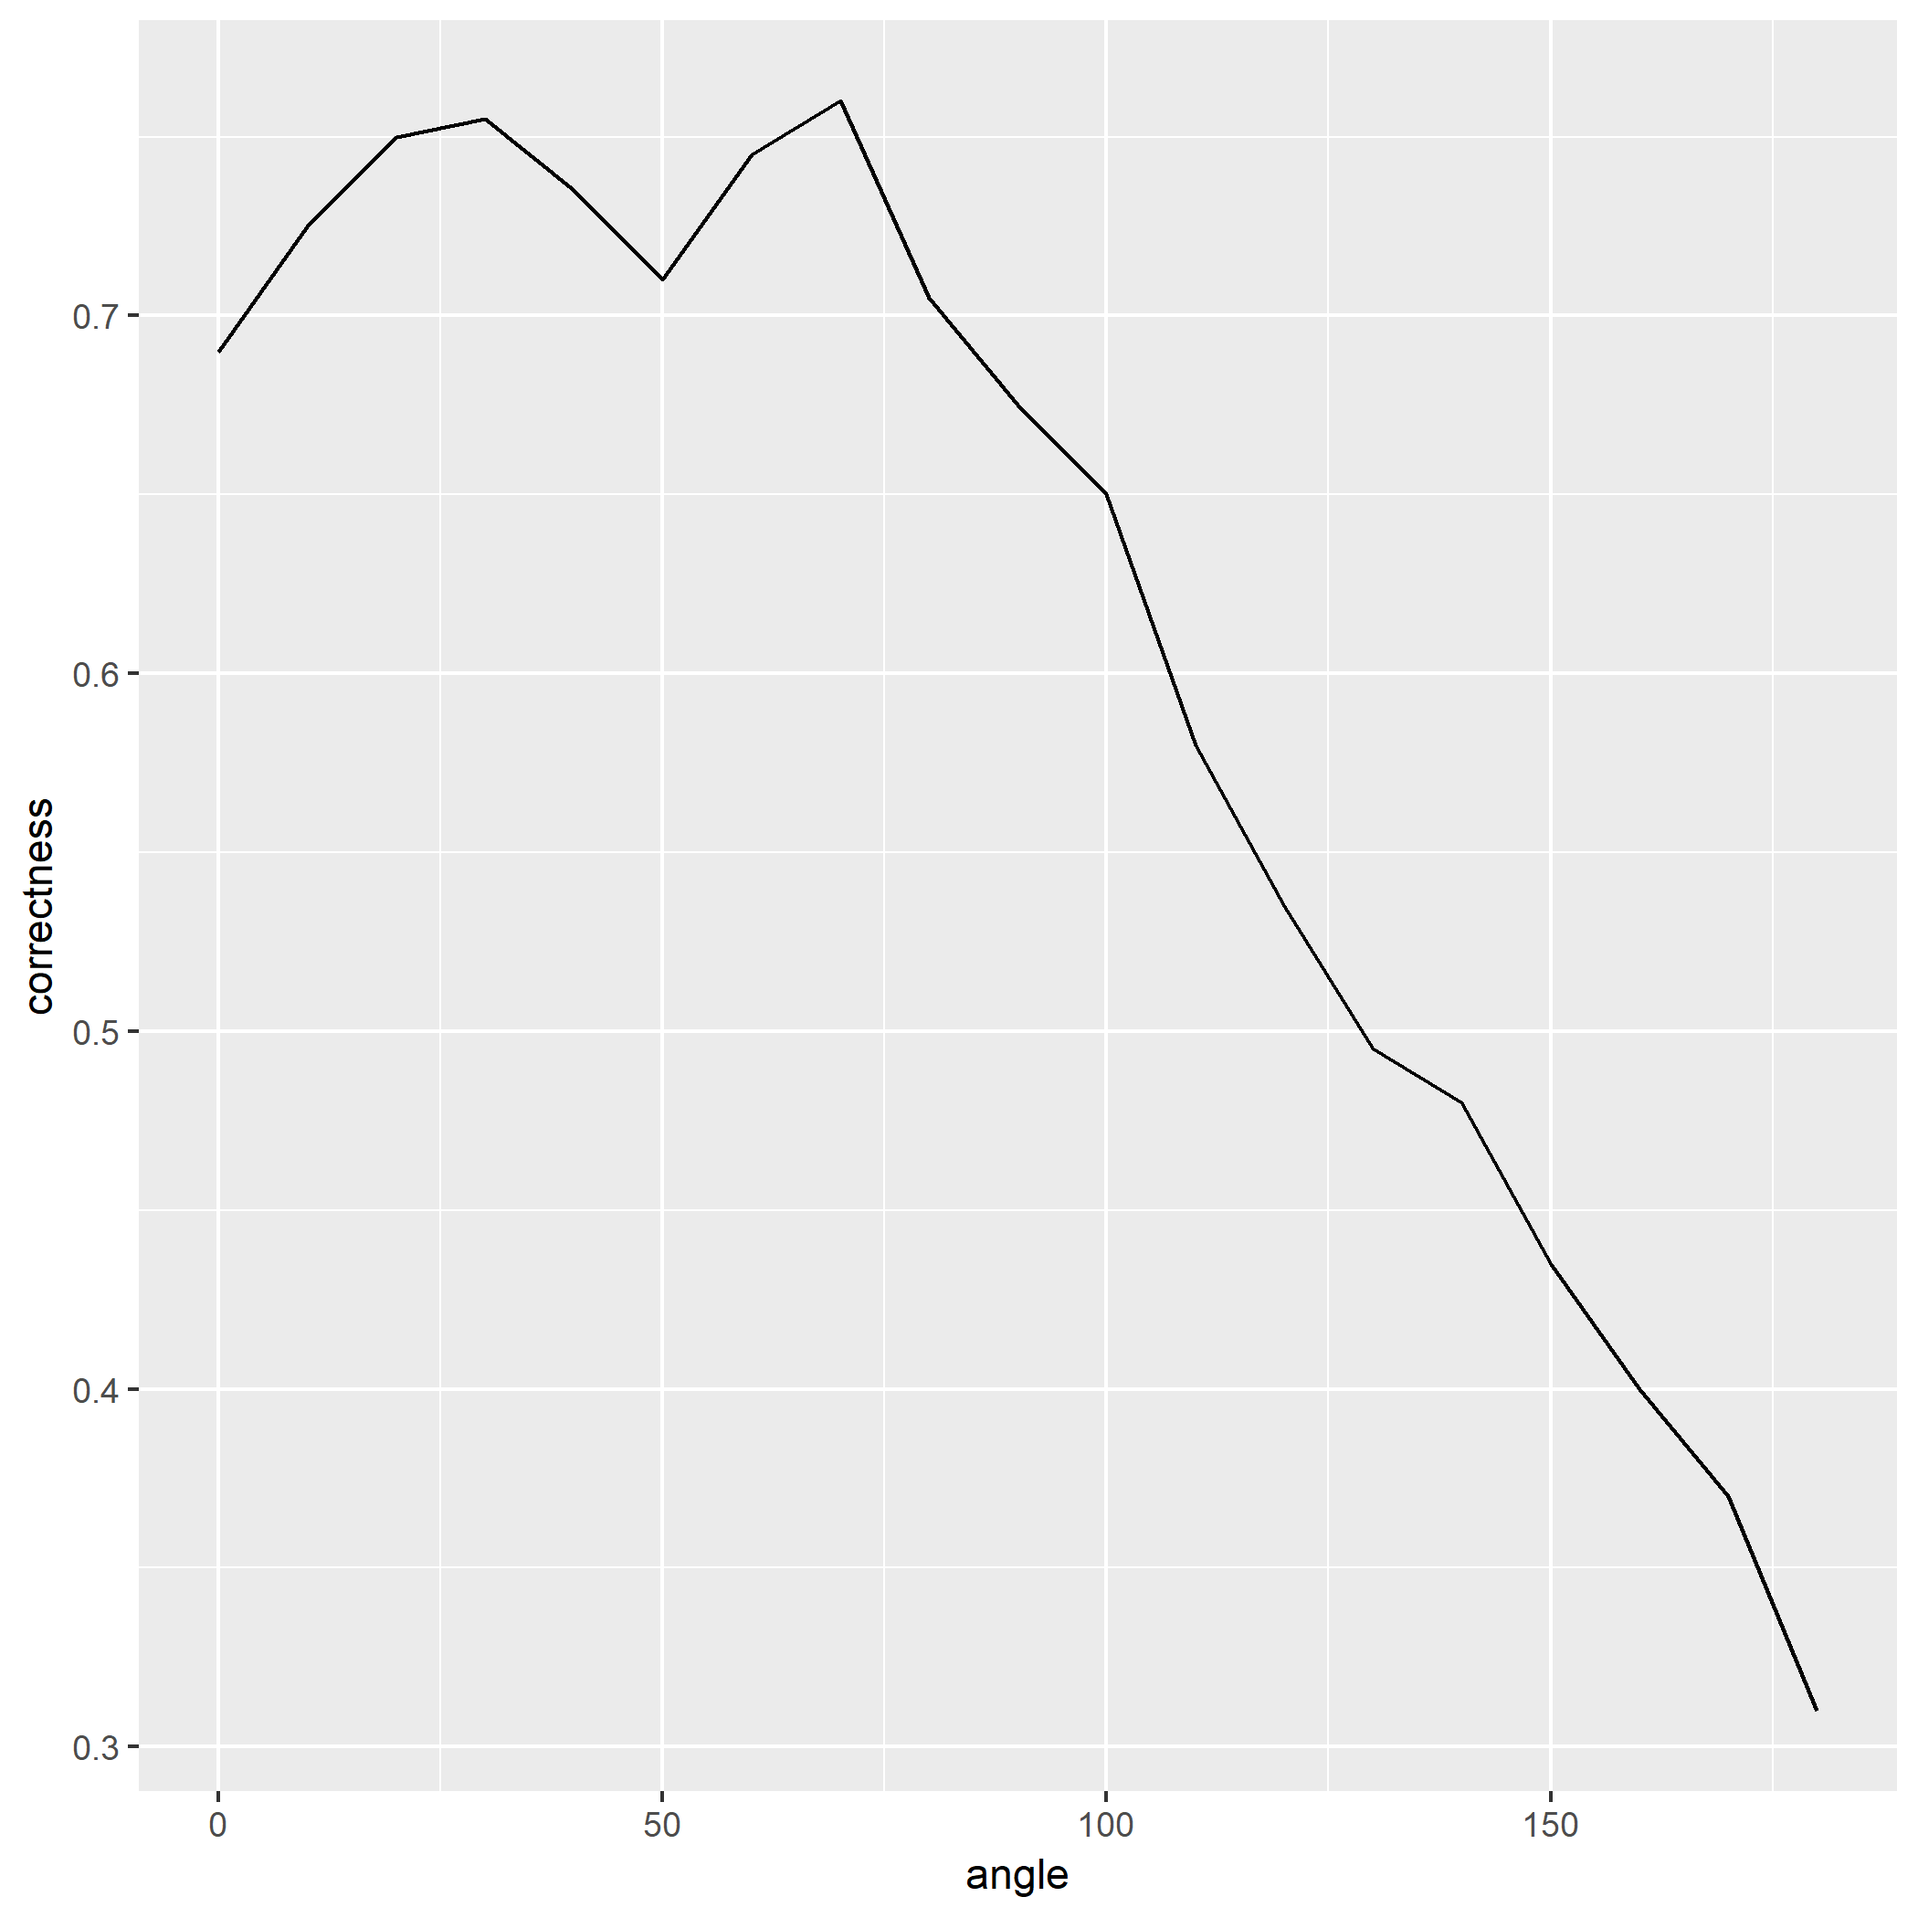
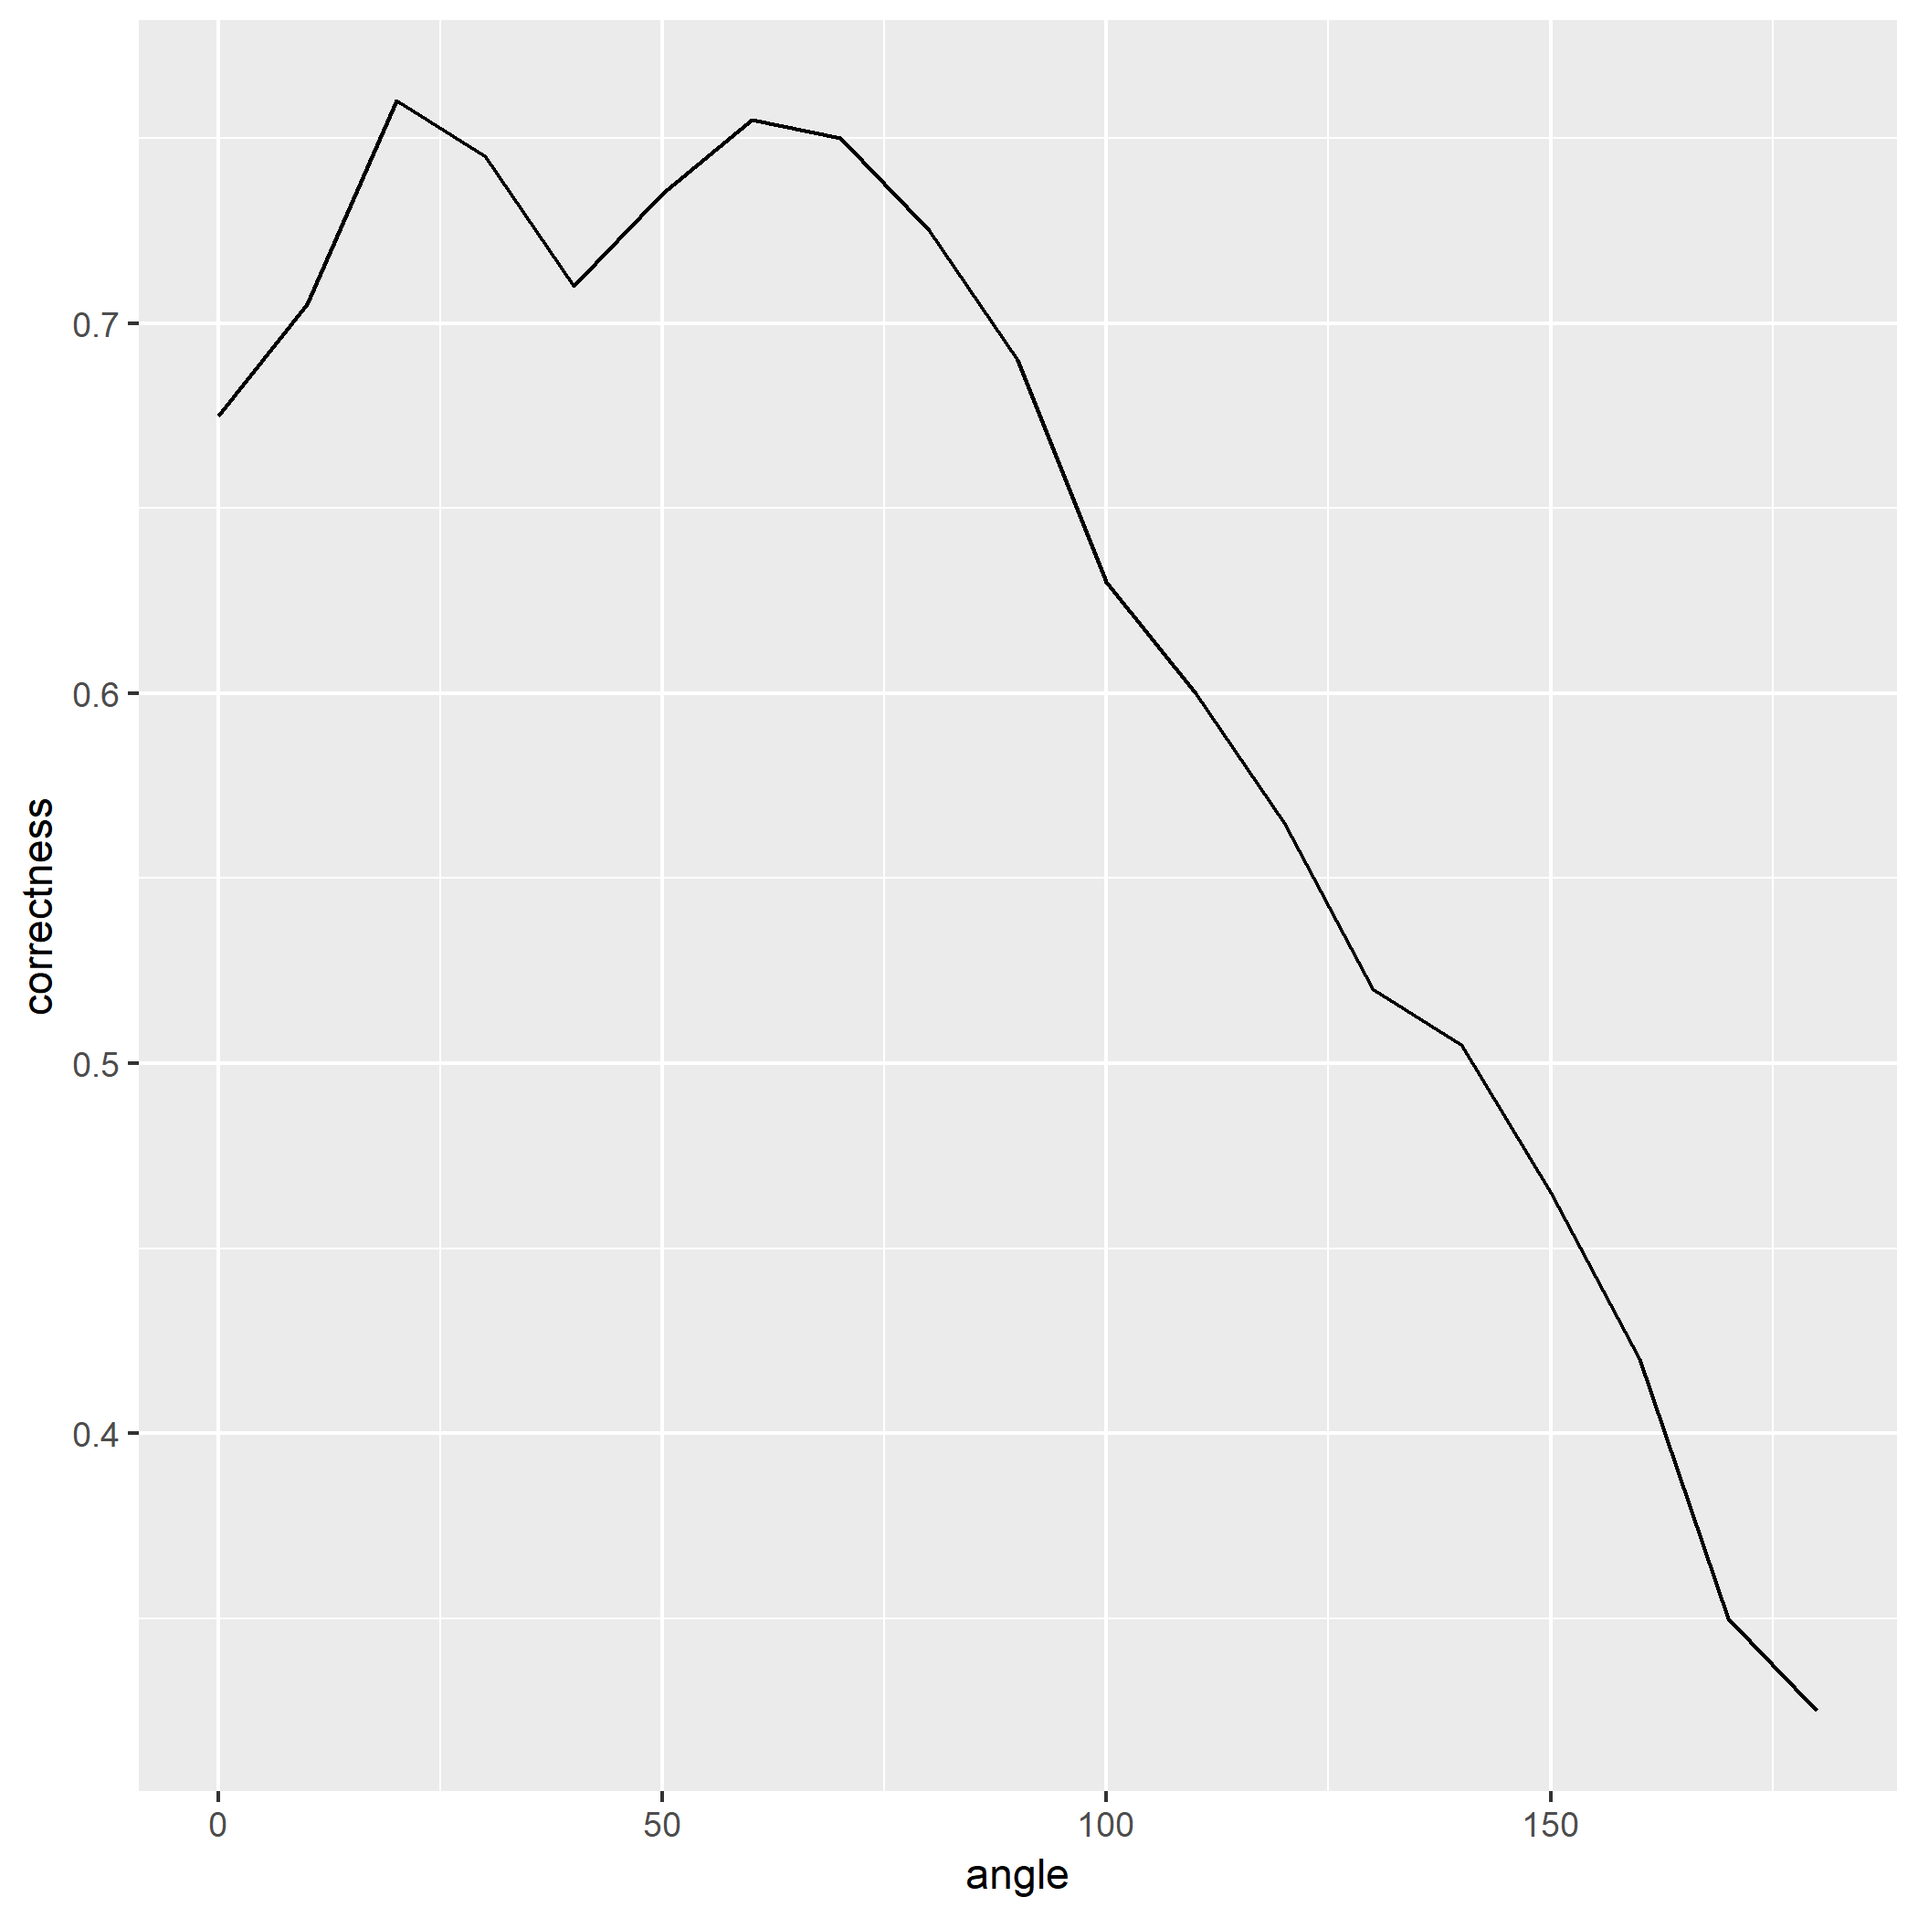
Take a break.

diff --git a/source/_posts/机器学习作业练习-二.md b/source/_posts/机器学习作业练习-二.md
@@ -37,6 +37,19 @@ $$
 将每个$\vec{w}$应用到属性集上得出$\hat{y}$，与原本的标签$y_0$对比得出正确率，最后得到`正确率-角度`的图（[源码](https://github.com/CFWLoader/supreme-bassoon/blob/master/MachineIntelligence/e2/e2-1b.R)）：
 ![](机器学习作业练习-二/e2-1b_cor-angle.png)
 
+## <font color="red">注意</font>
+
+笔者在第二问就尝试输出$\theta = 0$时最佳的$\alpha=20°$的图像，发现直线并不是所期待一般近似划分两个类：
+![](机器学习作业练习-二/e2-1b_wrg.png)
+
+在开始探究原因之前，先回想清楚{% post_link "数学方法技巧整理" "法向量" %}的定义。
+
+定义是没有问题的，那是因为刚好$\theta = 0$导致直线方程$w_1 x_1 + w_2 x_2 = 0$，即所得的直线刚好是法向量所在的直线，于是划分类的超平面恰好垂直于该直线，根据两直线垂直其斜率之积为$-1$可以得到最终划分超平面的超平面方程为$x_2 = \frac{w2}{w1} x_1$，根据方程作出直线：
+
+![](机器学习作业练习-二/e2-1b.png)
+
+这样才有点像划分的样子，但是要注意这仅仅是$\theta = 0$时的特例，一般情况所得$w^T x + \theta = 0$超平面便是划分点集的超平面。
+
 接下来一问是根据上一问得出的最佳的$\vec{w}$，组合$\theta\in [-3,3]$，得出正确率最高的$\theta$（[源码](https://github.com/CFWLoader/supreme-bassoon/blob/master/MachineIntelligence/e2/e2-1c.R)）：
 
 运行得到：
@@ -49,4 +62,4 @@ $$
 
 ![](机器学习作业练习-二/e2-1d.png)
 
-### <font color="red">注意</font>
+然后就是尝试$\alpha\in [0°, 180°], \theta\in[-3,3]$不同的组合，得出正确率最高的组合并画出结果。
